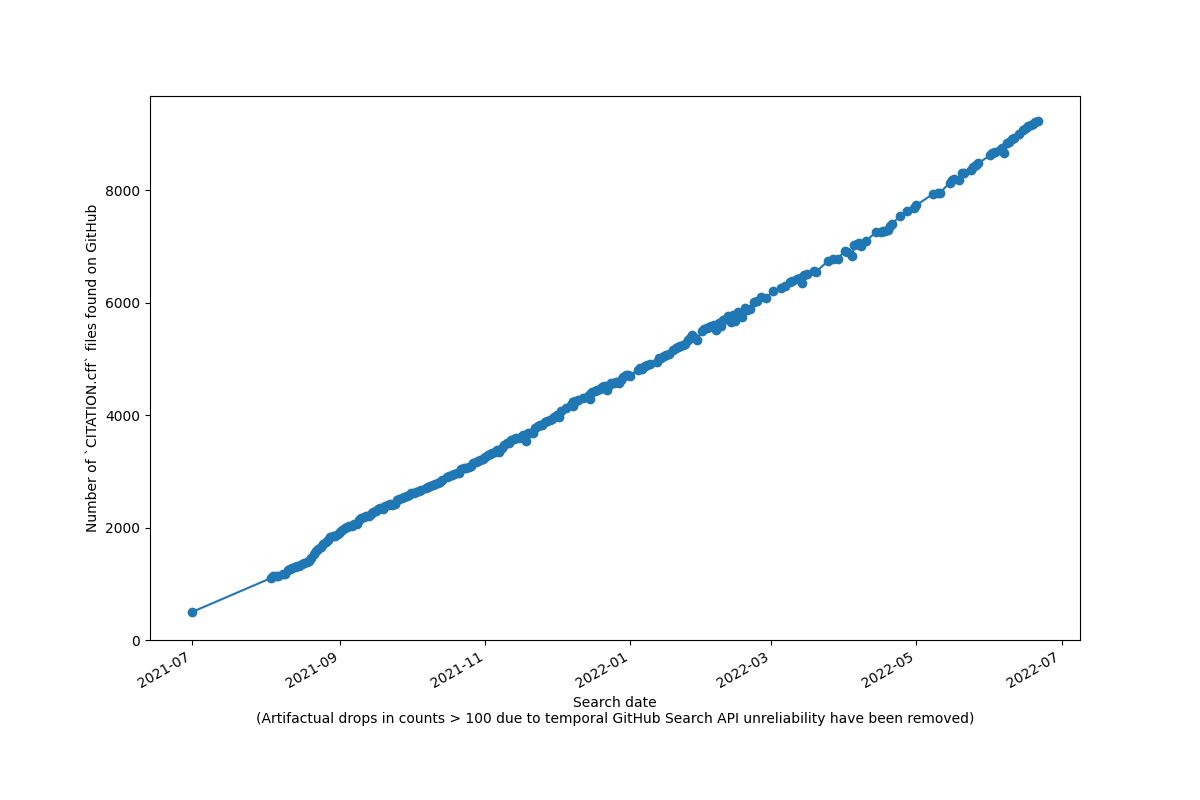
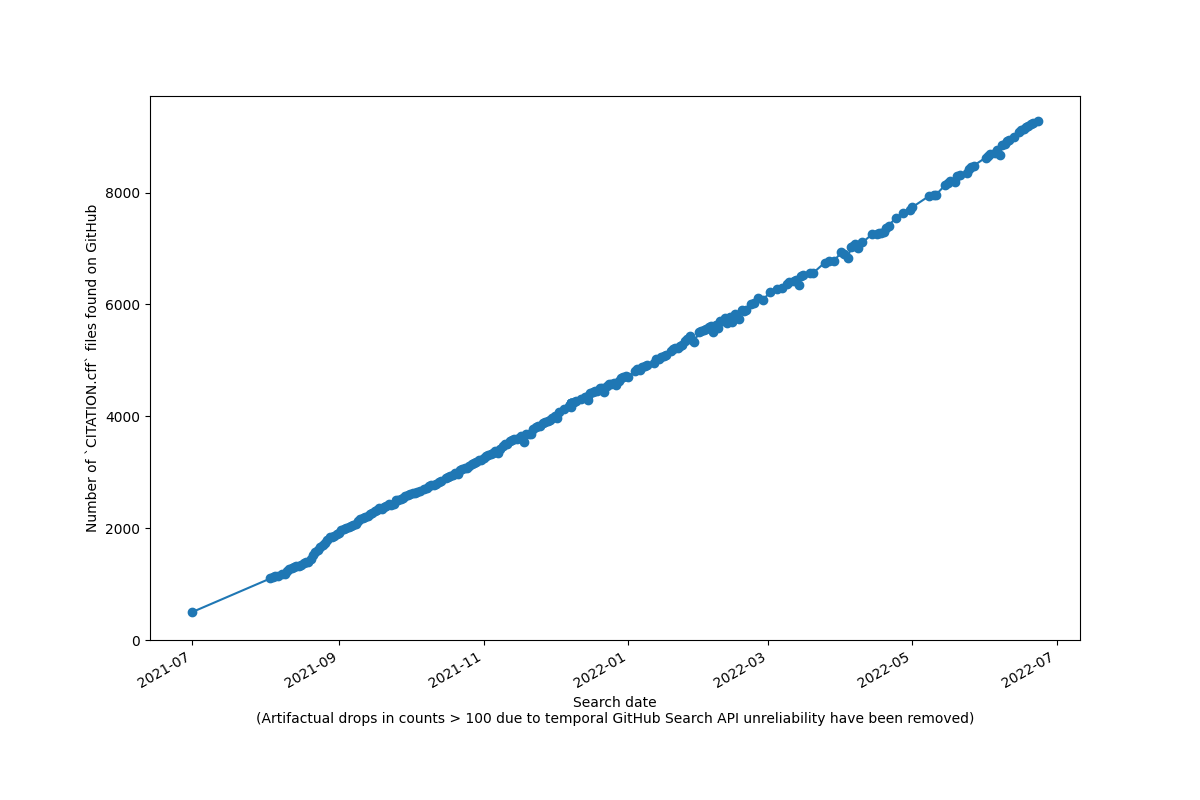
Update data

diff --git a/README.md b/README.md
@@ -7,7 +7,7 @@ SPDX-License-Identifier: CC-BY-4.0
 
 Tracks `CITATION.cff` files across public repositories on GitHub.
 
-## Current count: 4570
+## Current count: 9288
 
 ![A graph showing a timeline of file counts for CITATION.cff files across GitHub retrieved via GitHub search API.](cff_counts_clean.png)
 
